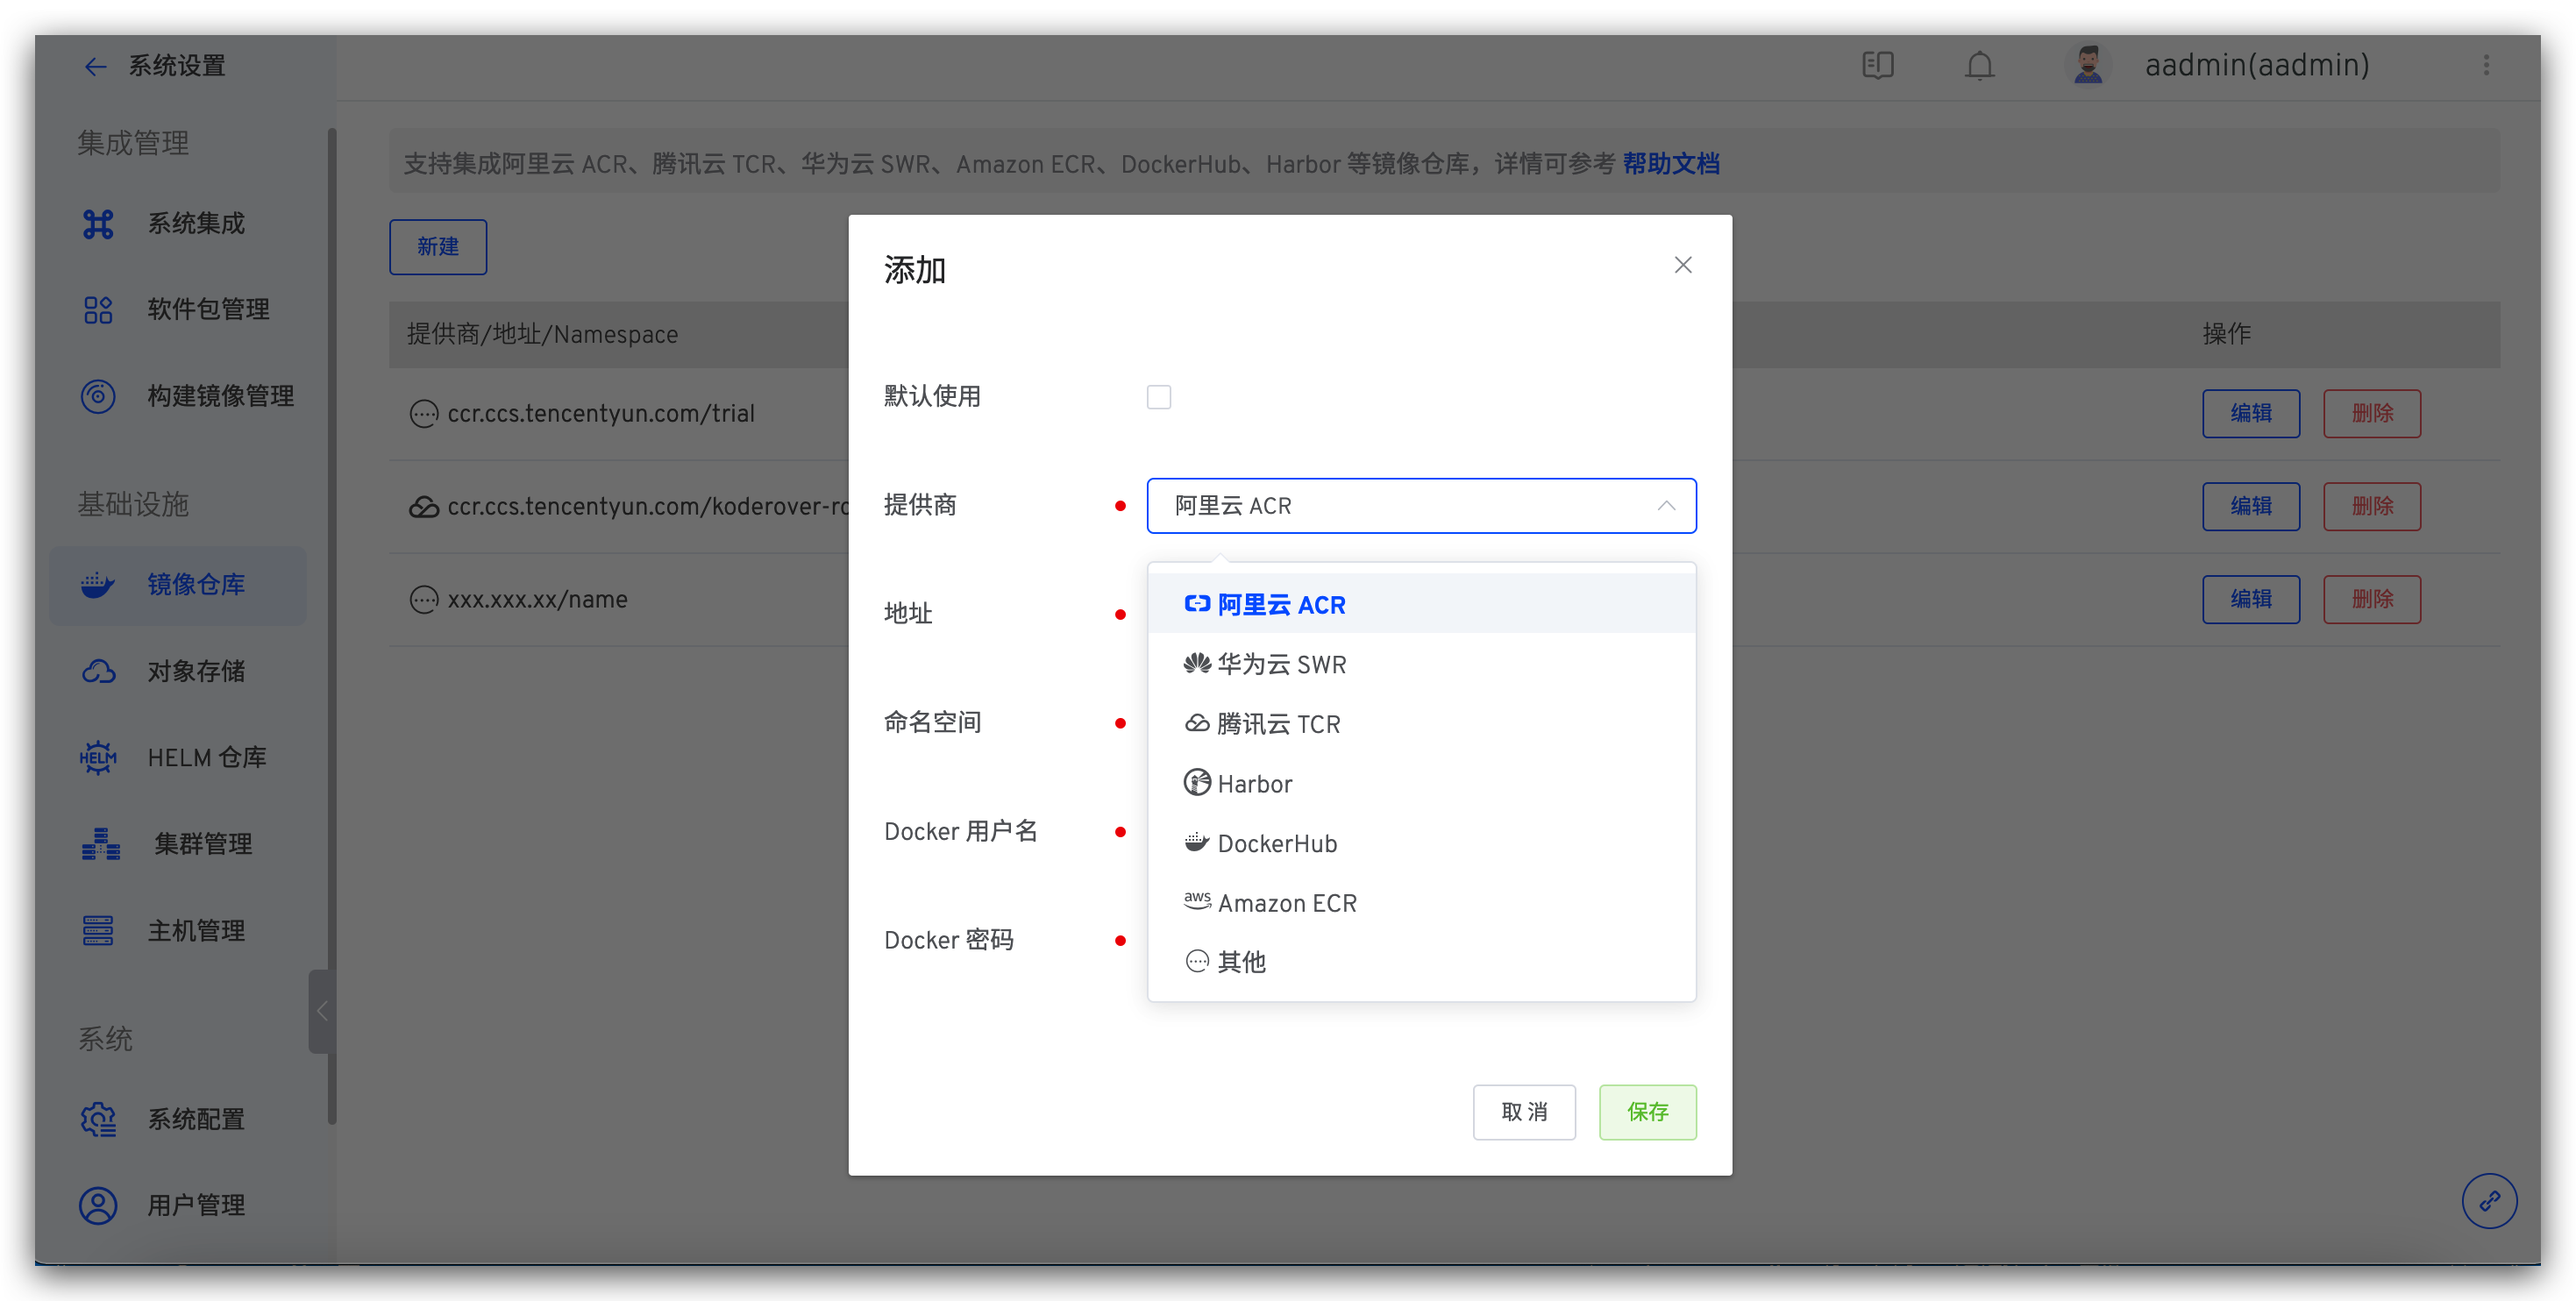
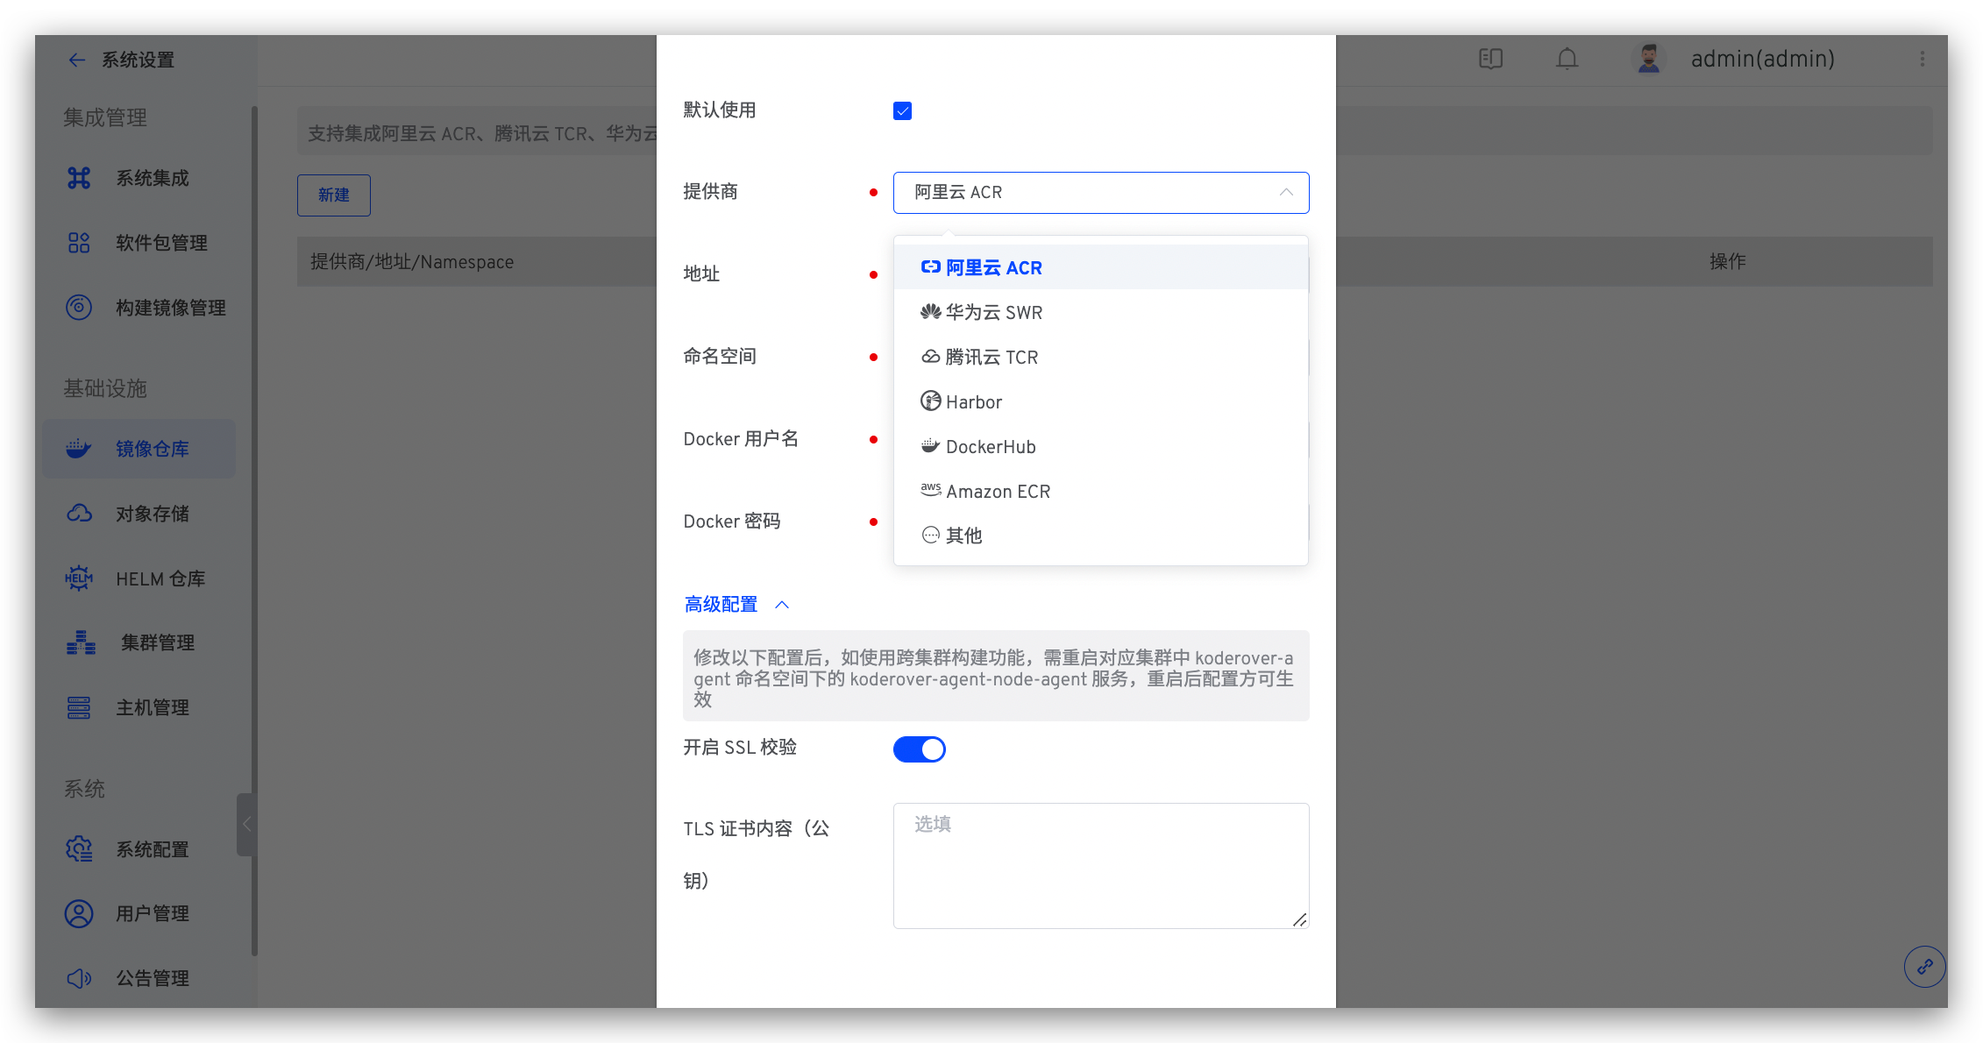
add ssl configuration instructions for image registry

diff --git a/dev/12.系统设置/08.registry_manage.md b/dev/12.系统设置/08.registry_manage.md
@@ -20,21 +20,28 @@ permalink: /dev/settings/image-registry/
 - `命名空间`：空间名称
 - `Docker 用户名`：镜像仓库 `Docker 用户名`
 - `Docker 密码`：镜像仓库 `Docker 密码`
+- `开启 SSL 校验`：可关闭 SSL 校验，关闭后系统将镜像地址注入`insecure-registry`中。
+- `TLS 证书内容（公钥）`：如果镜像仓库配置自签 TLS/SSL 证书，需配置证书公钥内容方可正常使用。
 
+::: warning 修改 <font color=#FF000 >开启 SSL 校验</font> 和 <font color=#FF000 >TLS 证书内容（公钥）</font>配置注意事项
+1. 修改配置后，会导致 Zadig 服务重启，可能会影响工作流的执行。所以建议在没有工作流执行的情况下配置。
+2. 修改配置后，如使用跨集群构建功能，需重启对应集群中 koderover-agent 命名空间下的 koderover-agent-node-agent 服务，重启后配置方可生效。
+:::
 ## 使用镜像仓库
 
 - 工作流 - 构建
 
-工作流执行构建步骤时，将构建产物推送到指定的镜像仓库
+工作流执行构建步骤时，将构建产物推送到指定的镜像仓库。
 
 - 工作流 - 部署
 
-工作流执行部署步骤时，从指定的镜像仓库中拉取镜像
+工作流执行部署步骤时，从指定的镜像仓库中拉取镜像。
 
-- 工作流 - 分发
+- 工作流 - 分发部署
 
-工作流执行分发步骤时，将产物推送到工作流分发配置中所选的镜像仓库
+工作流执行分发部署步骤时，将产物推送到工作流分发配置中所选的镜像仓库。
+如有指定部署环境，部署过程从指定的镜像仓库中拉取镜像。
 
 - 环境 - 镜像更新
 
-环境中，更新服务镜像时，从指定的镜像仓库中拉取镜像
+环境中，更新服务镜像时，从指定的镜像仓库中拉取镜像。
